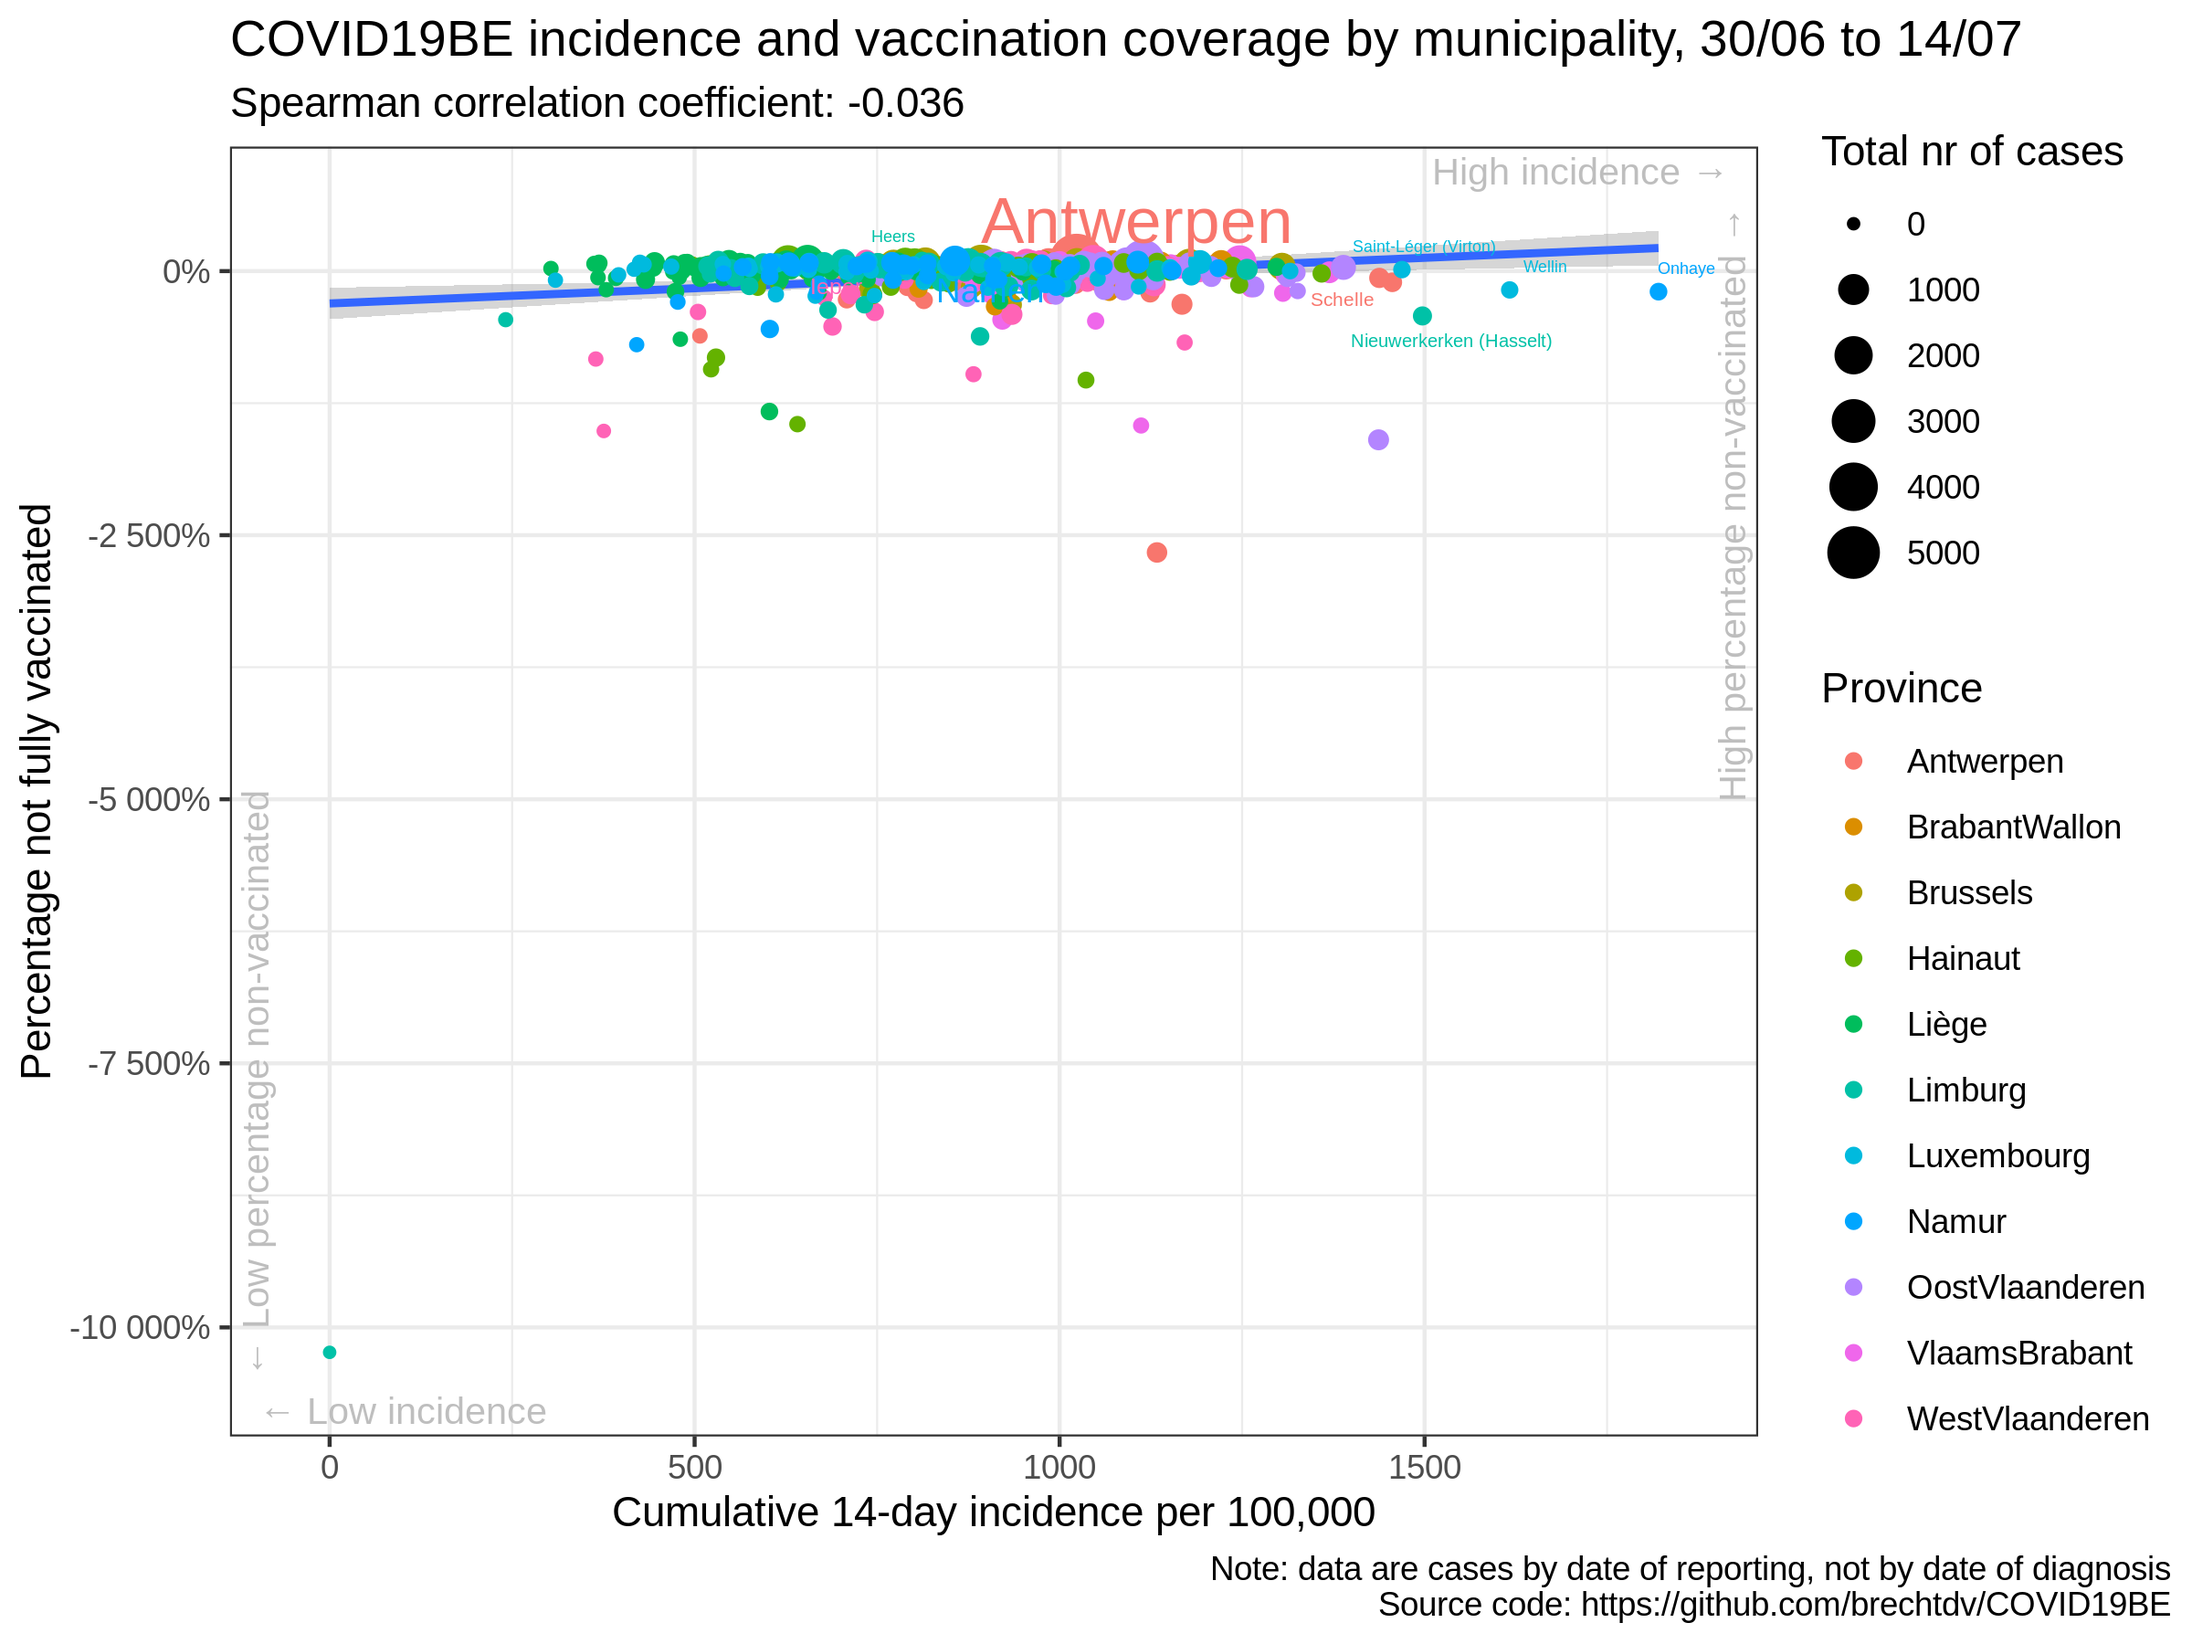
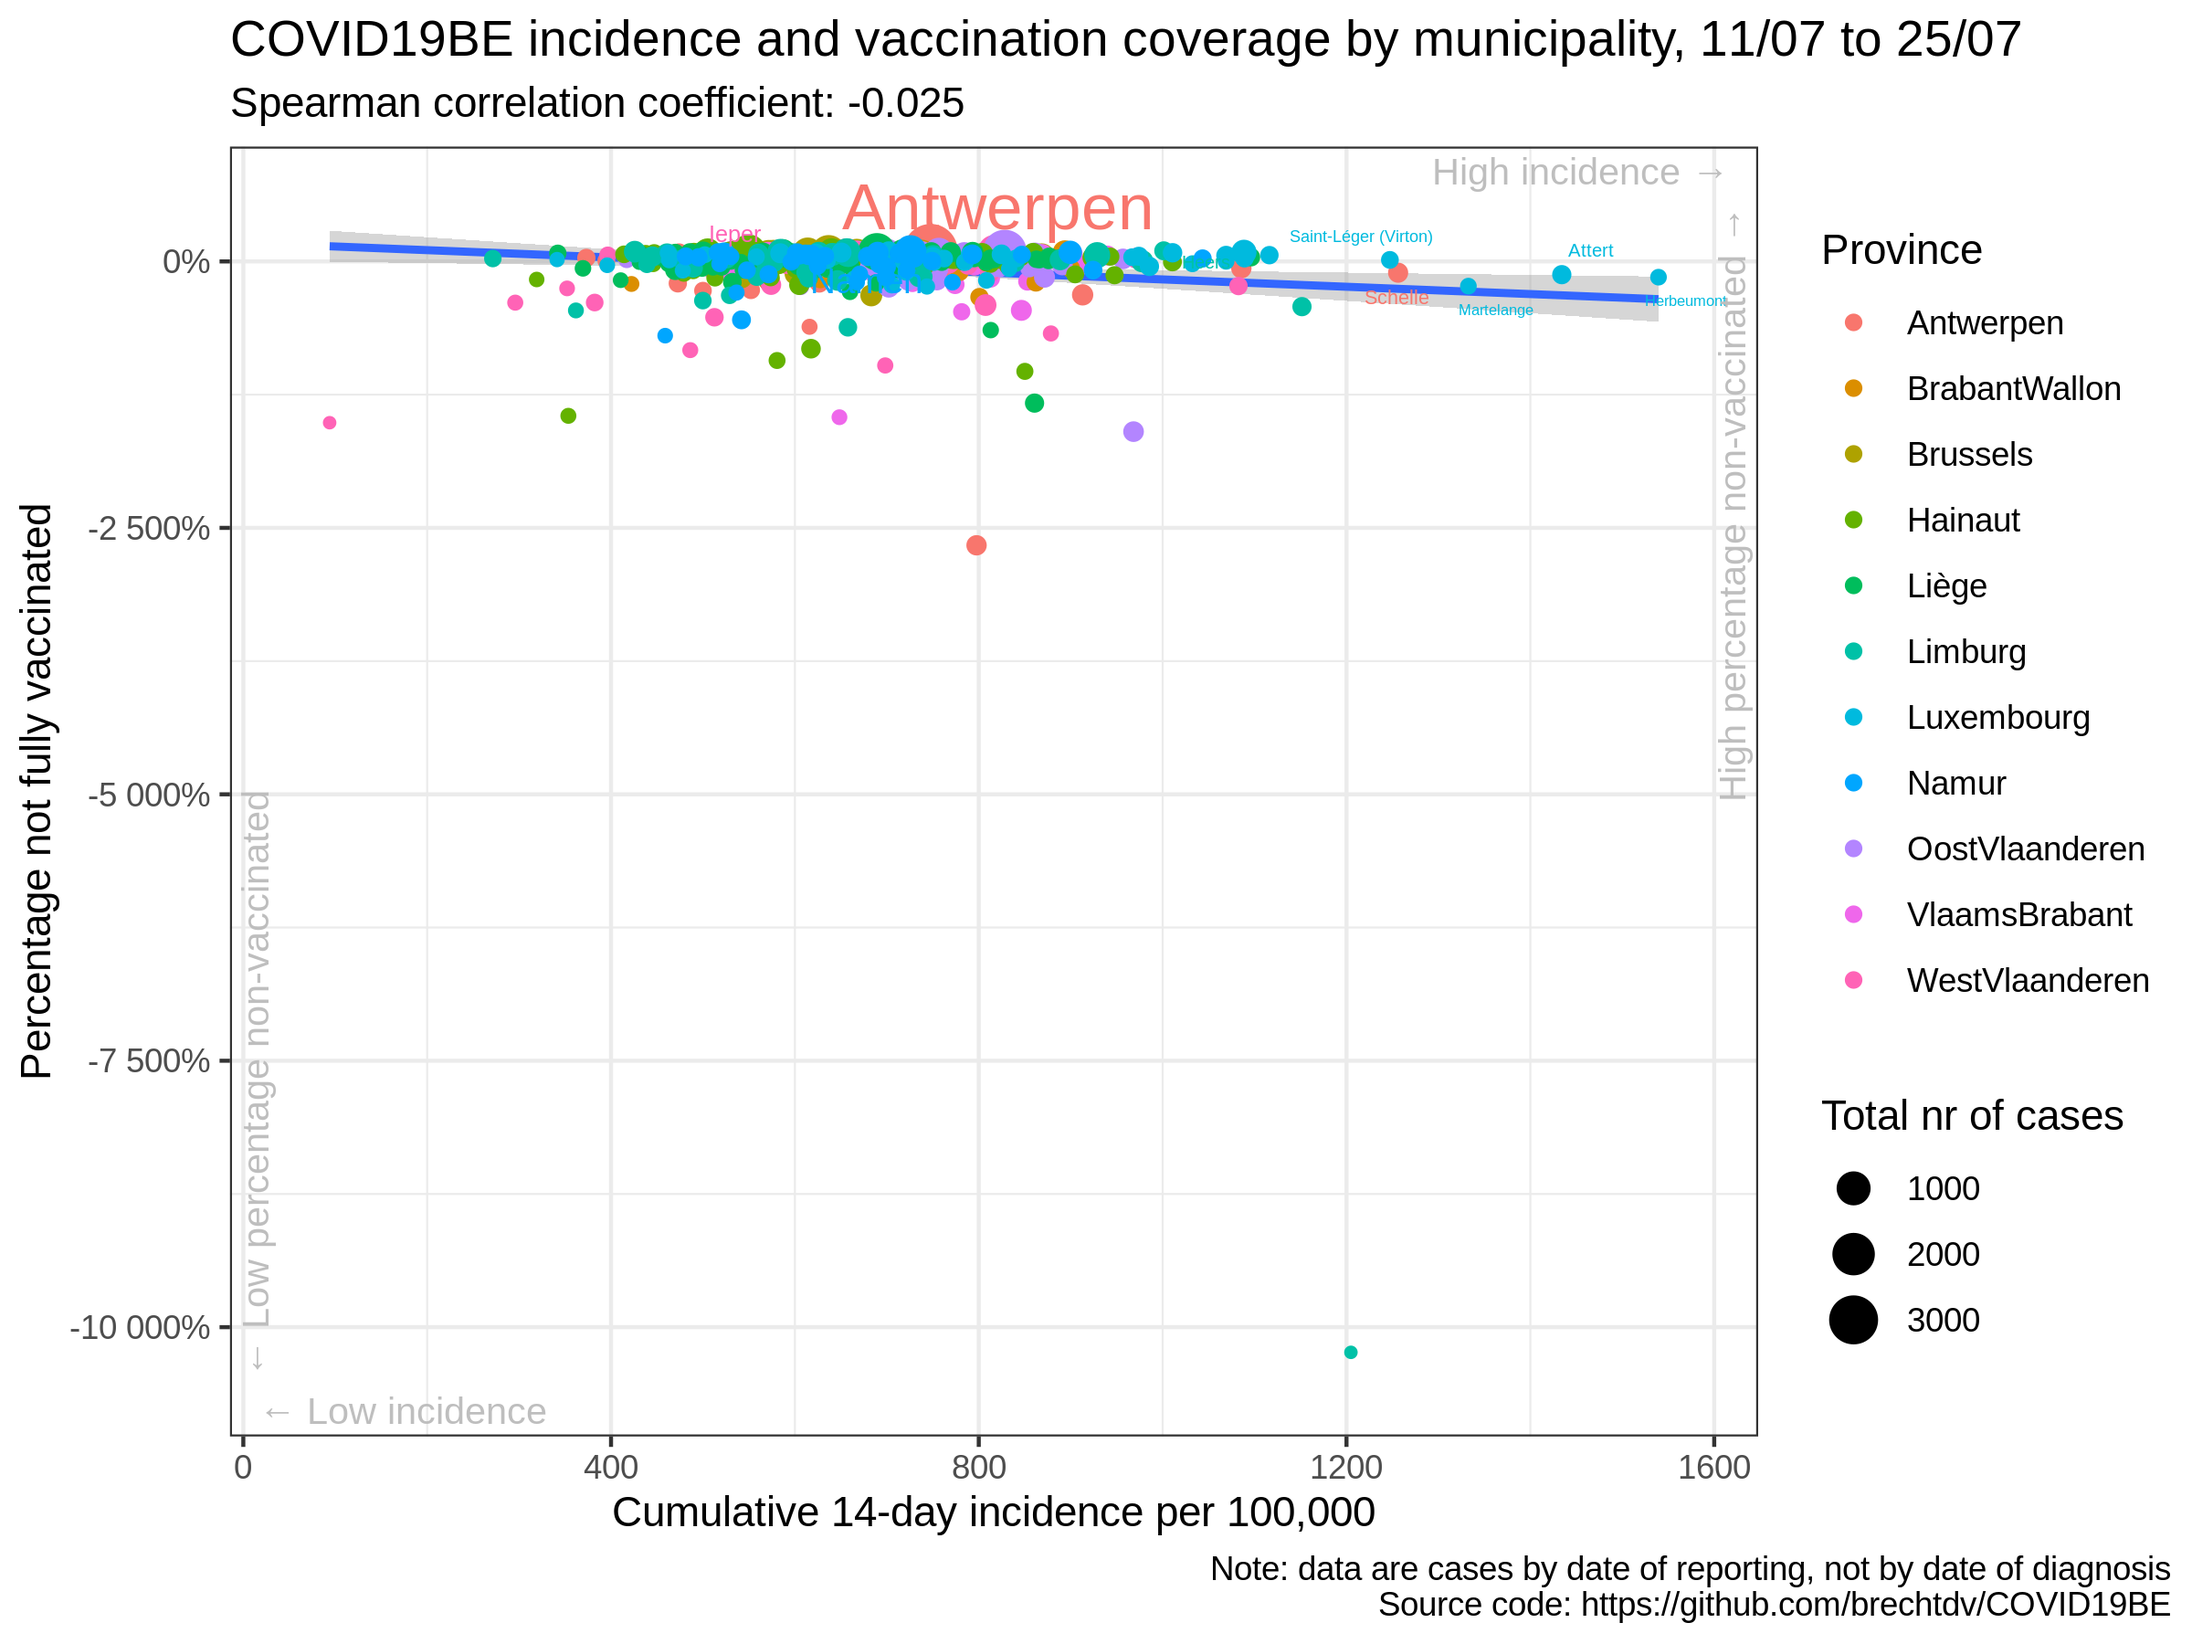
update situation

diff --git a/vaccination/README.md b/vaccination/README.md
@@ -17,35 +17,35 @@
 
 |                | estimate.rho | p.value |
 | :------------- | -----------: | ------: |
-| Antwerpen      |        0.079 |   0.520 |
-| BrabantWallon  |        0.336 |   0.087 |
-| Brussels       |      \-0.047 |   0.848 |
-| Hainaut        |      \-0.035 |   0.773 |
-| Liège          |      \-0.026 |   0.814 |
-| Limburg        |      \-0.075 |   0.636 |
-| Luxembourg     |      \-0.205 |   0.180 |
-| Namur          |        0.123 |   0.468 |
-| OostVlaanderen |      \-0.068 |   0.606 |
-| VlaamsBrabant  |      \-0.059 |   0.639 |
-| WestVlaanderen |        0.080 |   0.528 |
-| Belgium        |      \-0.036 |   0.381 |
+| Antwerpen      |      \-0.075 |   0.537 |
+| BrabantWallon  |        0.023 |   0.909 |
+| Brussels       |        0.105 |   0.667 |
+| Hainaut        |      \-0.159 |   0.191 |
+| Liège          |        0.005 |   0.965 |
+| Limburg        |      \-0.062 |   0.694 |
+| Luxembourg     |      \-0.171 |   0.266 |
+| Namur          |        0.116 |   0.491 |
+| OostVlaanderen |        0.288 |   0.026 |
+| VlaamsBrabant  |      \-0.072 |   0.568 |
+| WestVlaanderen |        0.098 |   0.440 |
+| Belgium        |      \-0.025 |   0.545 |
 
 ### Correlation cumulative incidence vs booster rate
 
 |                | estimate.rho | p.value |
 | :------------- | -----------: | ------: |
-| Antwerpen      |        0.086 |   0.481 |
-| BrabantWallon  |        0.347 |   0.077 |
-| Brussels       |      \-0.089 |   0.716 |
-| Hainaut        |      \-0.042 |   0.733 |
-| Liège          |      \-0.043 |   0.697 |
-| Limburg        |      \-0.077 |   0.629 |
-| Luxembourg     |      \-0.210 |   0.172 |
-| Namur          |        0.117 |   0.489 |
-| OostVlaanderen |      \-0.062 |   0.635 |
-| VlaamsBrabant  |      \-0.090 |   0.476 |
-| WestVlaanderen |        0.084 |   0.510 |
-| Belgium        |      \-0.060 |   0.150 |
+| Antwerpen      |      \-0.067 |   0.583 |
+| BrabantWallon  |        0.013 |   0.950 |
+| Brussels       |        0.114 |   0.641 |
+| Hainaut        |      \-0.172 |   0.157 |
+| Liège          |        0.009 |   0.934 |
+| Limburg        |      \-0.066 |   0.679 |
+| Luxembourg     |      \-0.174 |   0.257 |
+| Namur          |        0.097 |   0.565 |
+| OostVlaanderen |        0.294 |   0.023 |
+| VlaamsBrabant  |      \-0.096 |   0.444 |
+| WestVlaanderen |        0.100 |   0.432 |
+| Belgium        |      \-0.030 |   0.473 |
 
 ### Data source
 
